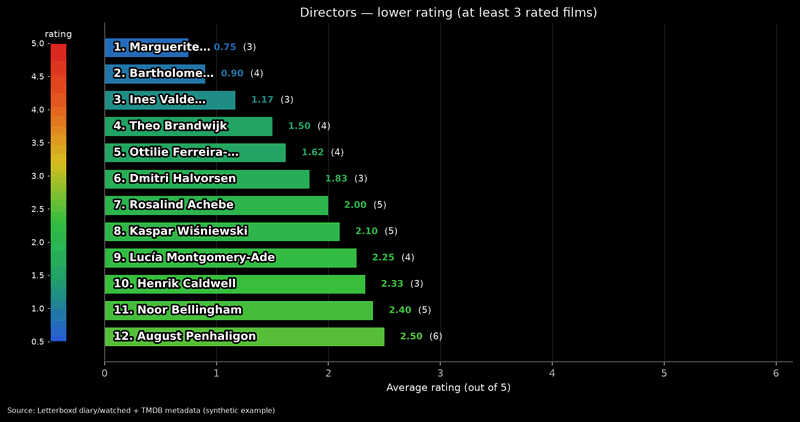
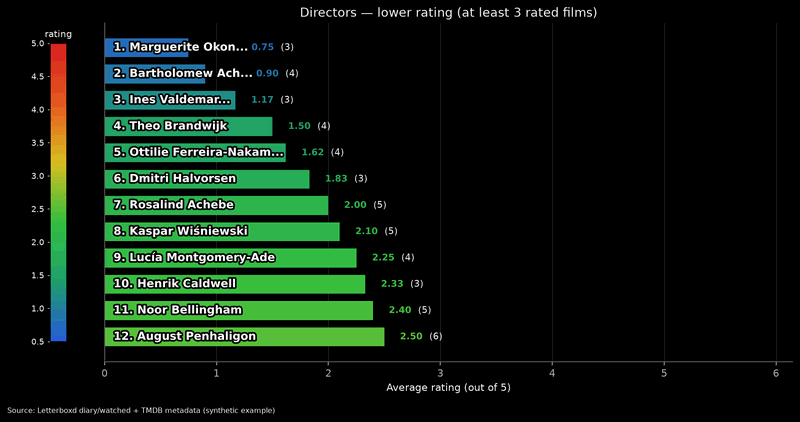
Fill rating bars with the name and overflow at 15 characters.
Measure the label against the bar width minus a small end pad. A bar that holds 15 name characters keeps the name inside and ellipsizes only what still does not fit. A shorter bar shows exactly 15 characters plus an ellipsis past the tip, and the rating stays to the right of the label.

diff --git a/scripts/letterboxd_top_charts.py b/scripts/letterboxd_top_charts.py
@@ -60,7 +60,8 @@ LANG_LABELS = {
 }
 
 
-SHORT_BAR_NAME_CHARS = 10
+SHORT_BAR_NAME_CHARS = 15
+NAME_ELLIPSIS = "..."
 
 
 def display_lang(code) -> str:
@@ -100,10 +101,11 @@ def _fit_text_to_px(
     fontsize: float,
     fontweight: str = "bold",
     path_effects=None,
+    ellipsis: str = "…",
 ) -> str:
-    """Truncate ``text`` with … so its rendered width is at most ``max_px``."""
+    """Truncate ``text`` with an ellipsis so its rendered width is at most ``max_px``."""
     if max_px < 8:
-        return "…"
+        return ellipsis
 
     def width_px(candidate: str) -> float:
         return _text_width_px(
@@ -118,10 +120,10 @@ def _fit_text_to_px(
     if width_px(text) <= max_px:
         return text
     lo, hi = 0, len(text)
-    best = "…"
+    best = ellipsis
     while lo <= hi:
         mid = (lo + hi) // 2
-        candidate = "…" if mid <= 0 else text[:mid].rstrip() + "…"
+        candidate = ellipsis if mid <= 0 else text[:mid].rstrip() + ellipsis
         if width_px(candidate) <= max_px:
             best = candidate
             lo = mid + 1
@@ -497,11 +499,12 @@ def chart_rating_hbar(
 ) -> bool:
     """Horizontal bars for TMDB avg tops.
 
-    Names are white with a black stroke and start inside the bar. A bar that
-    holds at least ``SHORT_BAR_NAME_CHARS`` name characters keeps the label
-    inside, ellipsized only when the full name does not fit. A shorter bar
-    gets exactly that many characters plus … and the label overflows to the
-    right past the bar tip.
+    Names are white with a black stroke and start inside the bar. The label is
+    measured against the bar width minus a small end pad. A bar that holds at
+    least ``SHORT_BAR_NAME_CHARS`` name characters keeps the label inside,
+    ellipsized only when the full name does not fit, so the text reaches nearly
+    to the tip. A shorter bar shows exactly that many characters plus ``...``
+    and overflows to the right past the tip.
     ascending=False → best at top; True → worst at top.
     The mean to the right is bold and colored on the rating scale. The rated-film
     count sits beside it in regular light text as ``(12)``.
@@ -542,7 +545,7 @@ def chart_rating_hbar(
     style_axes(ax)
 
     # Layout must be finalized before measuring text against data coordinates.
-    cbar = _rating_colorbar(fig, ax, location="left", size="large")
+    _rating_colorbar(fig, ax, location="left", size="large")
     if footer:
         fig.text(0.01, 0.01, footer, fontsize=7, color=FG)
         fig.tight_layout(rect=[0.02, 0.03, 1, 1])
@@ -558,8 +561,8 @@ def chart_rating_hbar(
     ]
     name_fs = 11
     pad_left = 0.08
-    # Keep a generous empty tip so stroked names never crowd mean/n outside.
-    tip_gap = 0.4
+    # A few pixels of air so the stroke does not sit on the bar tip.
+    end_pad_px = 6
     gap_px = 8
 
     def x_px(x: float, yi: float) -> float:
@@ -570,16 +573,28 @@ def chart_rating_hbar(
             ax, renderer, text, fontsize=name_fs, fontweight="bold", path_effects=stroke
         )
 
+    def name_chars_that_fit(prefix: str, name: str, max_px: float) -> int:
+        if max_px <= 0 or not name:
+            return 0
+        lo, hi = 0, len(name)
+        best = 0
+        while lo <= hi:
+            mid = (lo + hi) // 2
+            if name_width(prefix + name[:mid]) <= max_px:
+                best = mid
+                lo = mid + 1
+            else:
+                hi = mid - 1
+        return best
+
     rows_drawn = []
     for yi, bar, rank, label, avg, rated in zip(y, bars, ranks, labels, avgs, rateds):
         yi, avg = float(yi), float(avg)
         prefix = f"{rank}. "
         name = str(label)
-        short = prefix + name[:SHORT_BAR_NAME_CHARS]
-        if len(name) > SHORT_BAR_NAME_CHARS:
-            short += "…"
-        inside_px = max(0.0, x_px(max(pad_left, avg - tip_gap), yi) - x_px(pad_left, yi))
-        inside = name_width(short) <= inside_px
+        inside_px = max(0.0, x_px(avg, yi) - end_pad_px - x_px(pad_left, yi))
+        fitted = name_chars_that_fit(prefix, name, inside_px)
+        inside = fitted >= len(name) or fitted >= SHORT_BAR_NAME_CHARS
         if inside:
             shown = _fit_text_to_px(
                 ax,
@@ -589,9 +604,10 @@ def chart_rating_hbar(
                 fontsize=name_fs,
                 fontweight="bold",
                 path_effects=stroke,
+                ellipsis=NAME_ELLIPSIS,
             )
         else:
-            shown = short
+            shown = prefix + name[:SHORT_BAR_NAME_CHARS].rstrip() + NAME_ELLIPSIS
         txt = ax.text(
             pad_left,
             yi,

diff --git a/scripts/test_letterboxd_top_charts.py b/scripts/test_letterboxd_top_charts.py
@@ -322,8 +322,8 @@ def test_rating_hbar_long_names_no_overlap(tmp_path: Path | None = None):
     assert path.is_file() and path.stat().st_size > 0
 
 
-def test_short_bars_overflow_ten_chars_long_bars_keep_name_inside(tmp_path: Path | None = None):
-    """Short bar: 10 name chars + … overflowing right. Long bar: full name inside."""
+def test_short_bars_overflow_fifteen_chars_long_bars_keep_name_inside(tmp_path: Path | None = None):
+    """Short bar: 15 name chars + ... overflowing right. Long bar: full name inside."""
     import letterboxd_top_charts as charts
 
     out = Path(tmp_path) if tmp_path is not None else Path("/tmp/lb-top-charts-test")
@@ -356,13 +356,13 @@ def test_short_bars_overflow_ten_chars_long_bars_keep_name_inside(tmp_path: Path
     extent = captured["extent"]
     by_text = {t.get_text(): t for t in texts}
 
-    short = by_text["2. di Bonaven…"]
+    short = by_text["2. di Bonaventura..."]
     assert short.get_ha() == "left"
     assert short.get_clip_on() is False
     assert short.get_fontweight() == "bold"
     short_bar = min(captured["bars"], key=lambda box: box.width)
-    assert extent["2. di Bonaven…"].x0 < short_bar.x1 < extent["2. di Bonaven…"].x1
-    assert extent["0.60"].x0 > extent["2. di Bonaven…"].x1
+    assert extent["2. di Bonaventura..."].x0 < short_bar.x1 < extent["2. di Bonaventura..."].x1
+    assert extent["0.60"].x0 > extent["2. di Bonaventura..."].x1
     assert extent["(3)"].x0 > extent["0.60"].x1
     assert "2. di Bonaventura Pictures" not in by_text
 
@@ -374,19 +374,44 @@ def test_short_bars_overflow_ten_chars_long_bars_keep_name_inside(tmp_path: Path
     assert by_text["(3)"].get_fontweight() == "normal"
 
 
-def test_names_over_ten_chars_are_not_capped_when_they_fit(tmp_path: Path | None = None):
+def test_ellipsis_reaches_the_bar_tip_when_more_than_fifteen_fit(tmp_path: Path | None = None):
+    """A bar that holds 15 characters keeps the label inside and fills the bar."""
+    import letterboxd_top_charts as charts
+
     out = Path(tmp_path) if tmp_path is not None else Path("/tmp/lb-top-charts-test")
     out.mkdir(parents=True, exist_ok=True)
-    texts = _hbar_texts(
-        lambda: chart_rating_hbar(
-            [{"name": "Sidney Kimmel Entertainment", "avg": 2.9, "rated": 4}],
-            out / "mid-bar.png",
+    name = "The International Pictures Corporation of Northern Europe"
+    captured: dict = {}
+    real_save = charts.save_dark_figure
+
+    def grab(fig, dest, **kwargs):
+        ax = fig.axes[0]
+        renderer = fig.canvas.get_renderer()
+        label = next(t for t in ax.texts if t.get_text().startswith("1. "))
+        captured["label"] = label.get_text()
+        captured["clip"] = label.get_clip_on()
+        captured["label_box"] = label.get_window_extent(renderer=renderer)
+        captured["bar"] = ax.patches[0].get_window_extent(renderer=renderer)
+        real_save(fig, dest, **kwargs)
+
+    charts.save_dark_figure = grab
+    try:
+        assert chart_rating_hbar(
+            [{"name": name, "avg": 2.2, "rated": 4}],
+            out / "filled-bar.png",
             title="Studios — higher rating",
         )
-    )
-    names = [t.get_text() for t in texts if t.get_text().startswith("1. ")]
-    assert len(names) == 1
-    assert len(names[0].removeprefix("1. ").rstrip("…")) > 10
+    finally:
+        charts.save_dark_figure = real_save
+    shown = captured["label"].removeprefix("1. ")
+    assert shown.endswith("...")
+    assert len(shown.removesuffix("...").rstrip()) > 15
+    assert name not in captured["label"]
+    bar = captured["bar"]
+    gap = bar.x1 - captured["label_box"].x1
+    assert captured["clip"] is True
+    assert 0 <= gap < 28
+    assert gap < bar.width * 0.12
 
 
 def test_watches_by_genre_stacked_count(tmp_path: Path | None = None):
@@ -730,8 +755,8 @@ if __name__ == "__main__":
     test_rating_hbar_with_in_bar_labels()
     test_rating_hbar_worst_ascending()
     test_rating_hbar_long_names_no_overlap()
-    test_short_bars_overflow_ten_chars_long_bars_keep_name_inside()
-    test_names_over_ten_chars_are_not_capped_when_they_fit()
+    test_short_bars_overflow_fifteen_chars_long_bars_keep_name_inside()
+    test_ellipsis_reaches_the_bar_tip_when_more_than_fifteen_fit()
     test_rating_hbar_worst_skips_short_slate()
     test_watches_by_genre_stacked_count()
     test_count_avg_text_style_colors_mean_only()

diff --git a/README.md b/README.md
@@ -24,9 +24,9 @@ You send the ZIP from Letterboxd → Settings → Import & Export → Export You
 
 *Release years with the highest average rating, among years with at least 3 rated films.*
 
-![Directors with the lowest average rating; short bars show the first 10 letters of the name with an ellipsis](docs/images/directors-lower-rating.png)
+![Directors with the lowest average rating; short bars show the first 15 letters of the name with an ellipsis](docs/images/directors-lower-rating.png)
 
-*Directors with the lowest average rating. A bar too short for 10 letters shows the first 10 and an ellipsis.*
+*Directors with the lowest average rating. A bar too short for 15 letters shows the first 15 and an ellipsis.*
 
 ## Commands
 
@@ -40,7 +40,7 @@ Dates are month before year. `2021-06.2022` means 2021-01-01 through 2022-06-30.
 
 ## Charts
 
-The report is a set of PNG charts in the chat: calendar (watches, pace, weekdays), extra stats, and TMDB tops for genres, countries of origin, directors, actors, original language, and studios. A rating bar ends with a bold colored average and a regular parenthetical count. A name stays inside its bar and is shortened with an ellipsis only when it does not fit. A bar too short for 10 characters shows the first 10 characters and an ellipsis, running past the end of the bar.
+The report is a set of PNG charts in the chat: calendar (watches, pace, weekdays), extra stats, and TMDB tops for genres, countries of origin, directors, actors, original language, and studios. A rating bar ends with a bold colored average and a regular parenthetical count. A name stays inside its bar and is shortened with an ellipsis only when it does not fit. A bar too short for 15 characters shows the first 15 characters and an ellipsis, running past the end of the bar.
 
 Example title: Studios — lower rating (at least 3 rated films).
 
